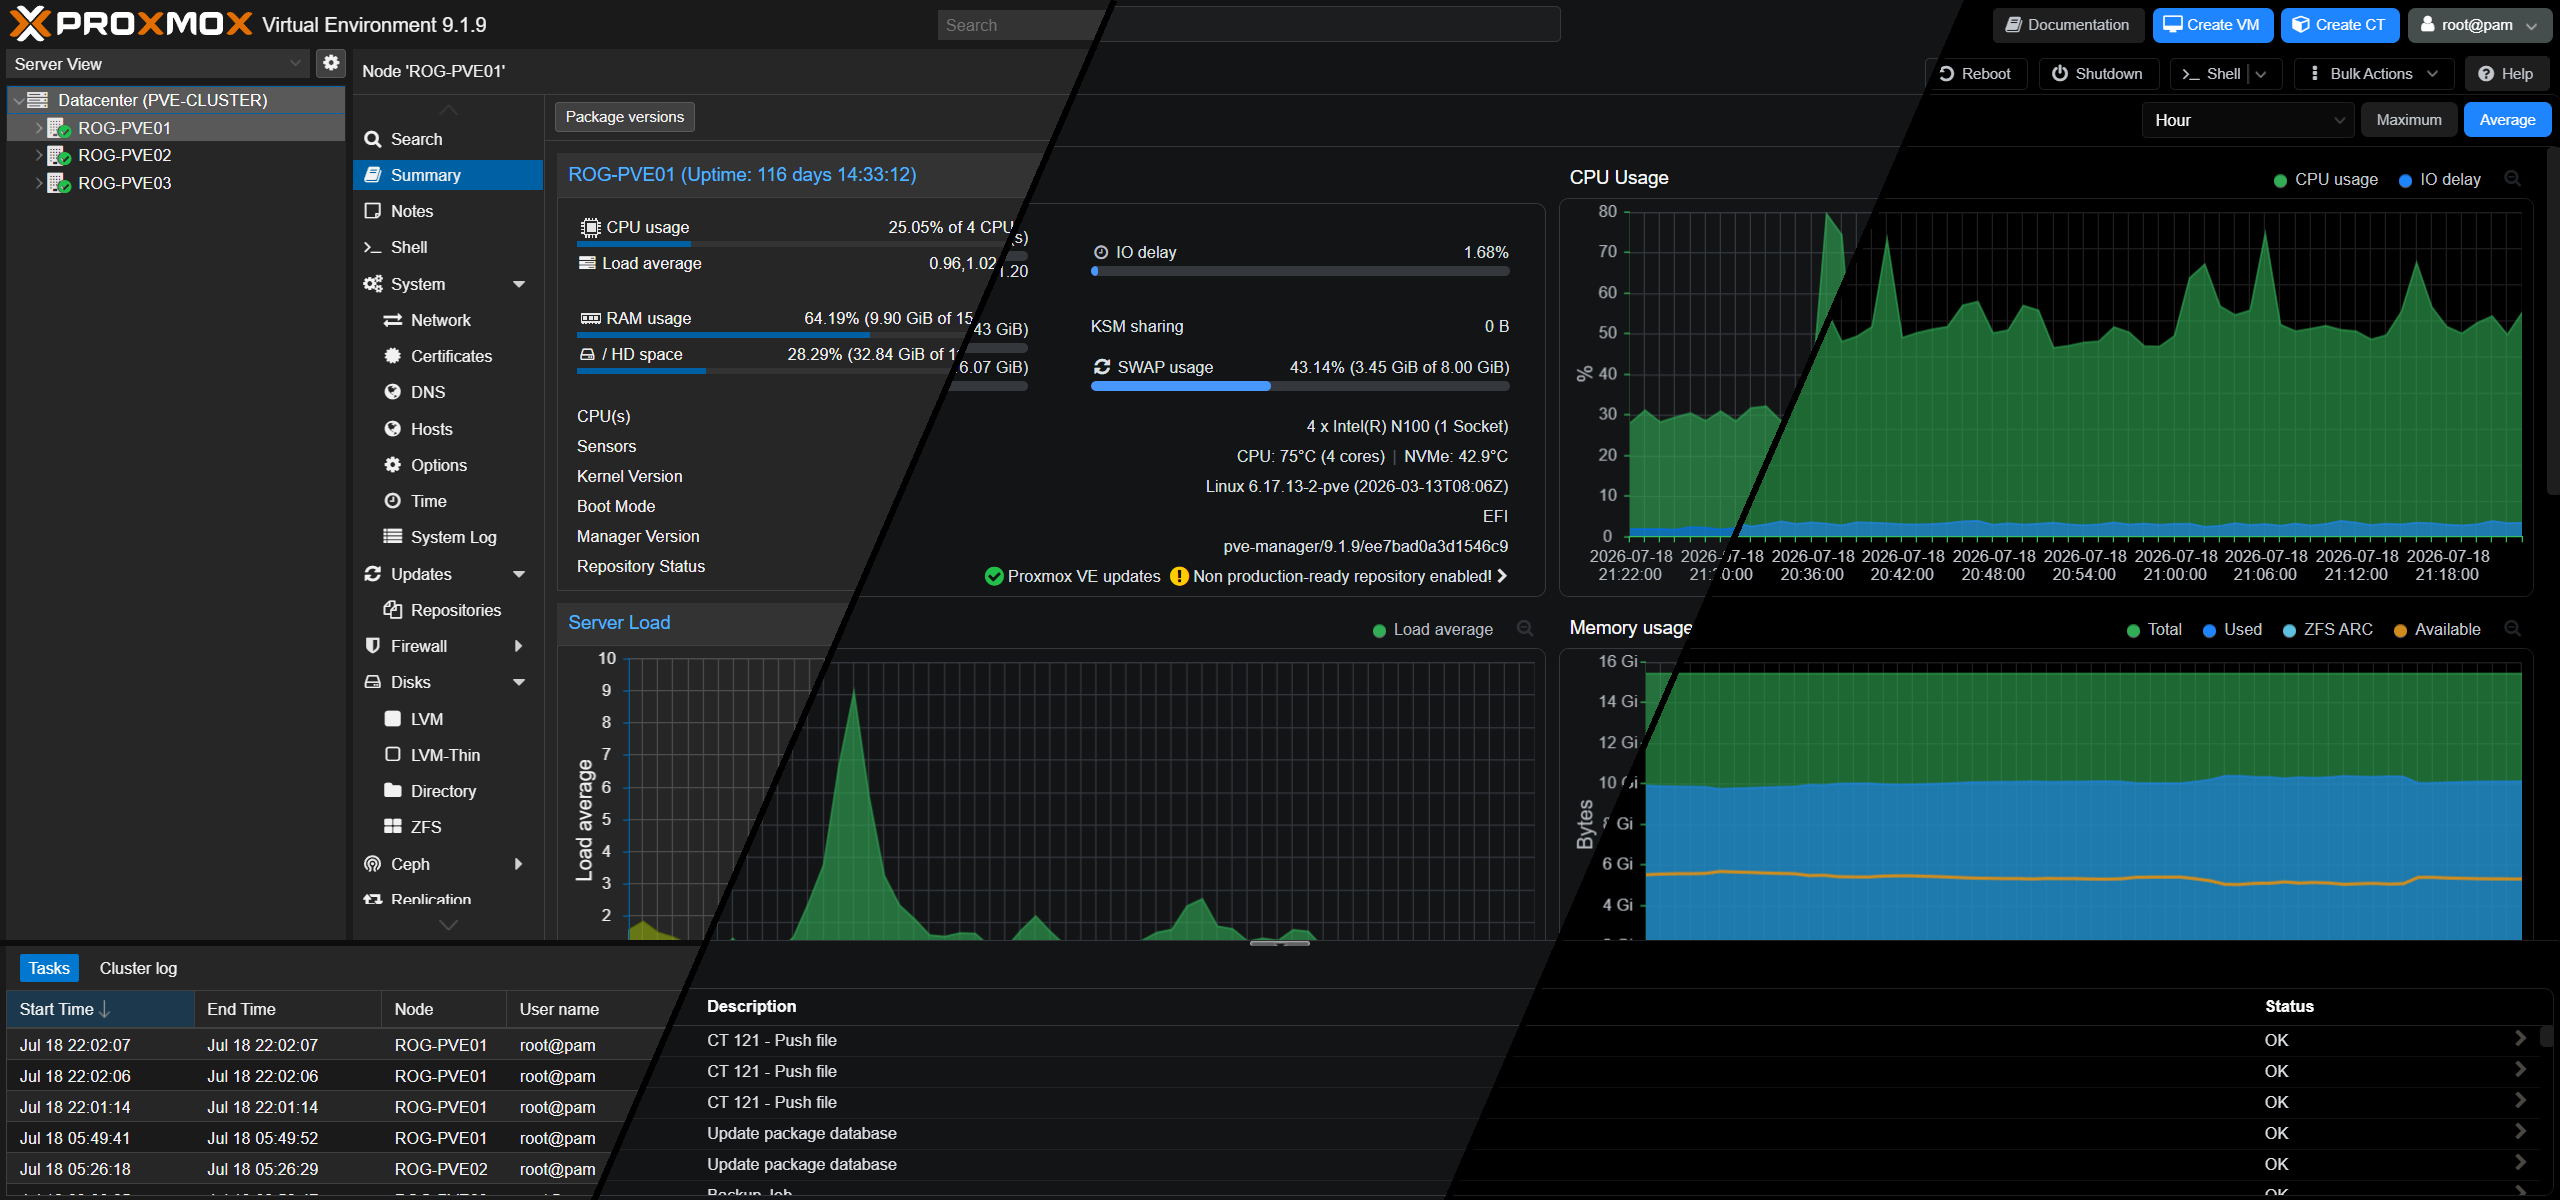
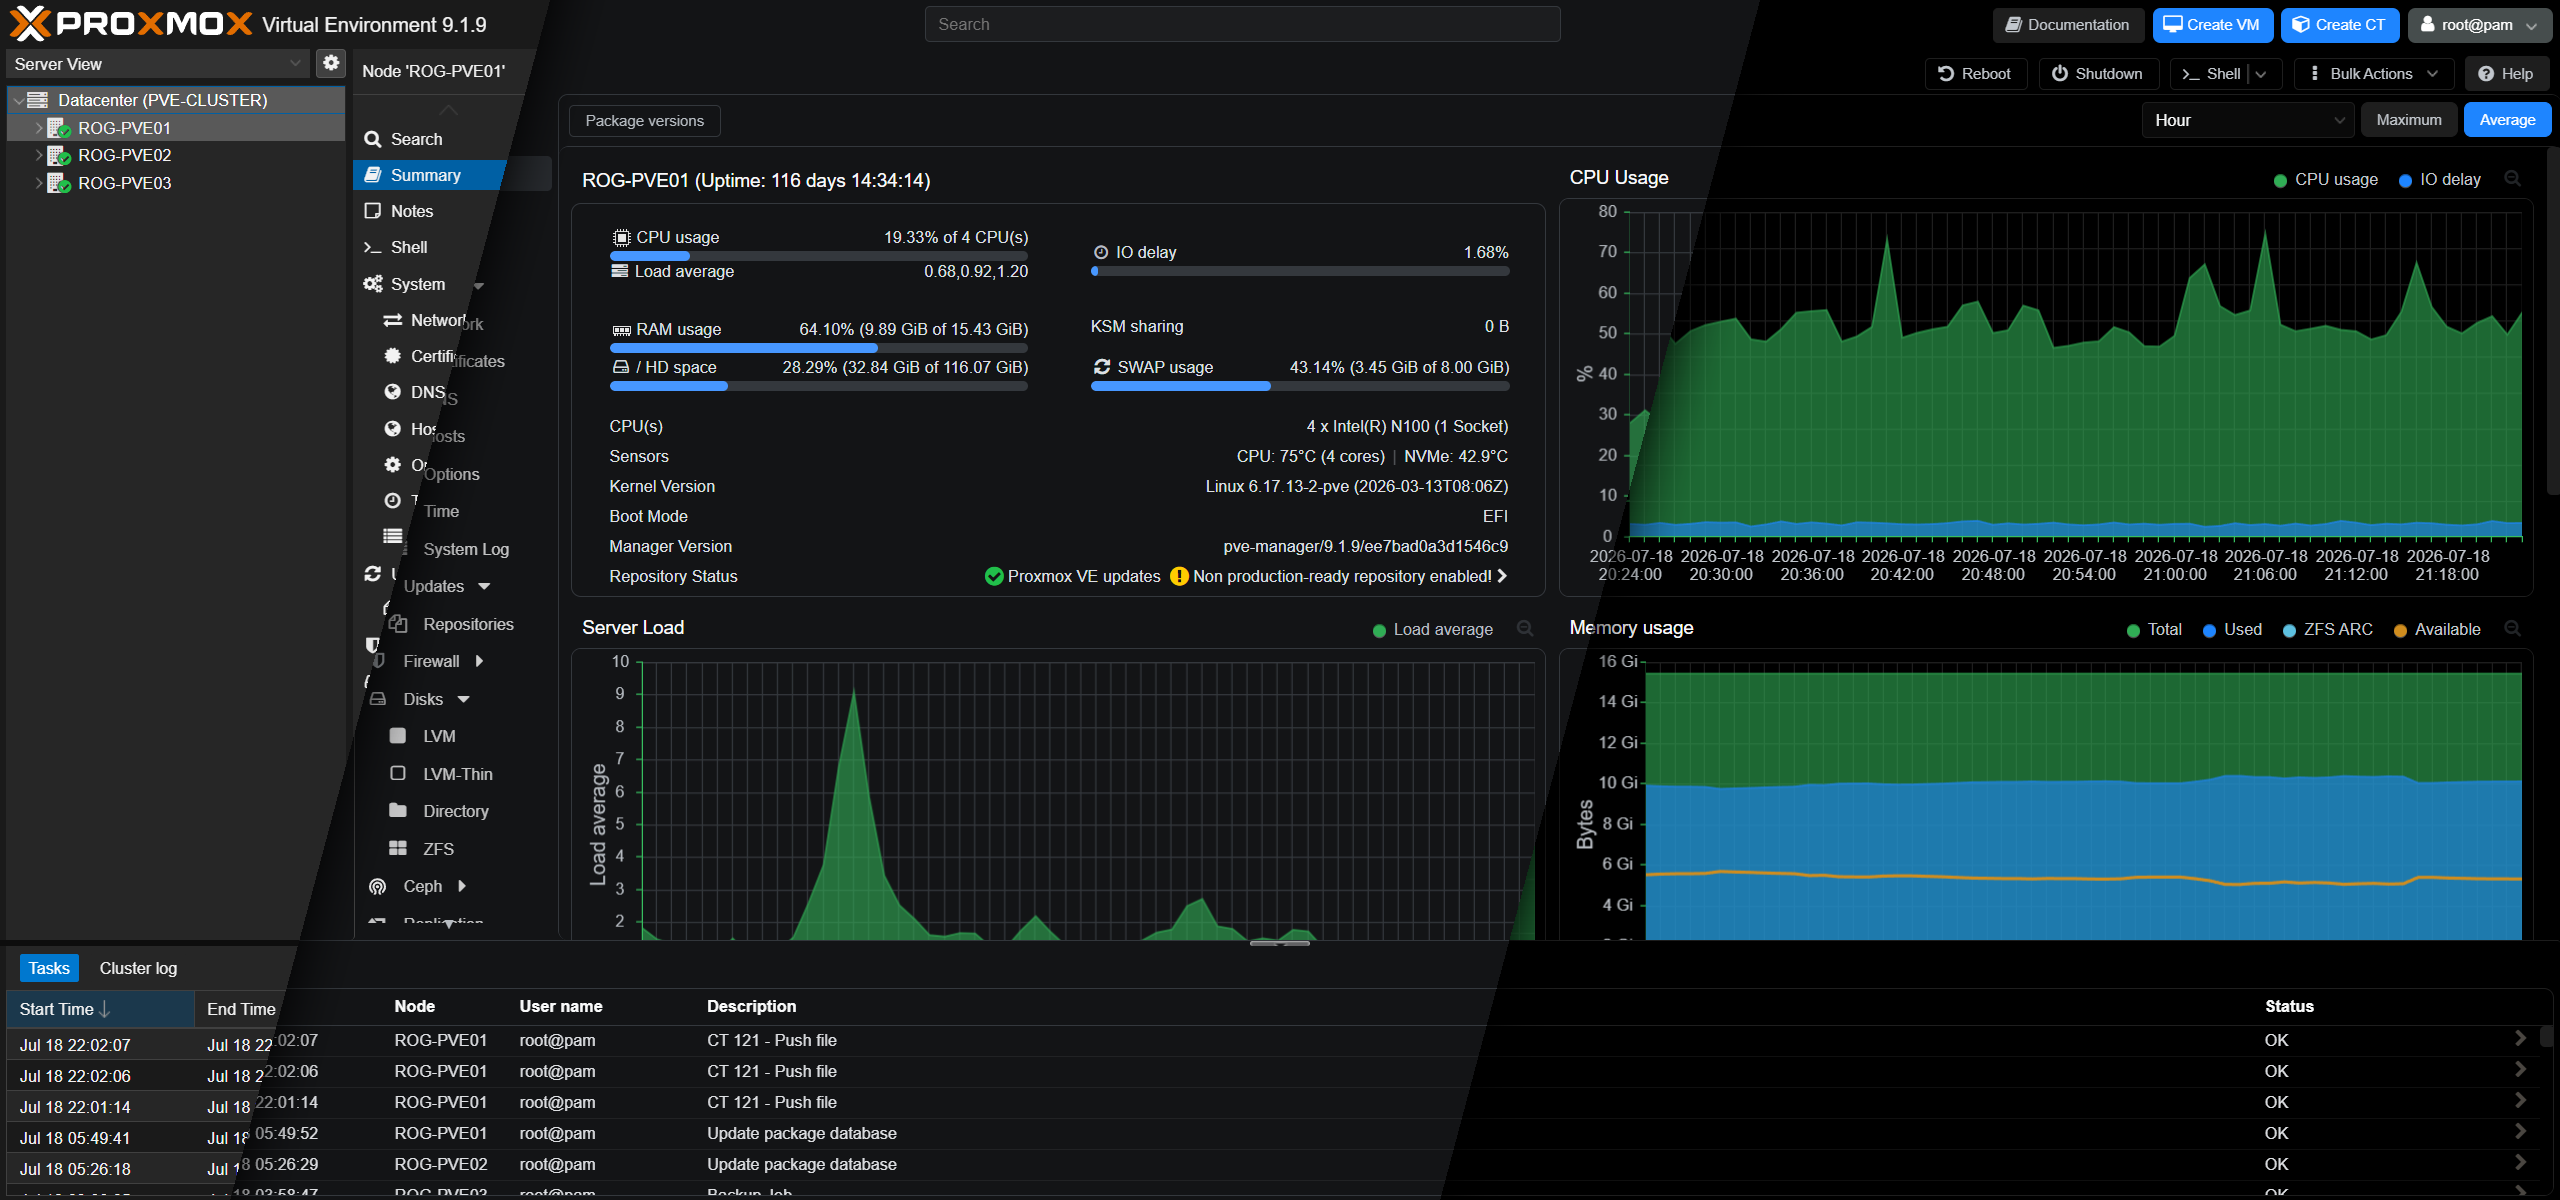
docs: refine title image slices, fix theme count and alt text

diff --git a/README.md b/README.md
@@ -14,11 +14,11 @@ Custom themes for Proxmox VE (PVE), Proxmox Backup Server (PBS), and Proxmox Dat
 
 Comparison between default Proxmox Dark theme and UniFi theme:
 
-![Proxmox Dark vs UniFi Theme](screenshots/Screenshot.png)
+![Proxmox Dark vs UniFi vs UniFi OLED Theme](screenshots/Screenshot.png)
 
 ## 🎨 Themes
 
-**22 themes** across 9 collections. Featured themes below — [**View Full Gallery →**](THEMES.md)
+**23 themes** across 9 collections. Featured themes below — [**View Full Gallery →**](THEMES.md)
 
 <table>
   <tr>
